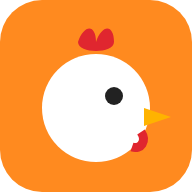
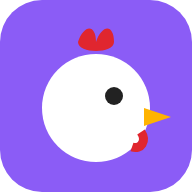
Rename app to Chiken and switch accent colour to purple
Claude-Session: https://claude.ai/code/session_014kmaJenJY1yJoL3Ndjo4G5

diff --git a/src/index.css b/src/index.css
@@ -5,8 +5,8 @@
   --line: #34343f;
   --text: #e8e8ef;
   --muted: #9a9aab;
-  --accent: #ff8a1f;
-  --accent2: #ffb35c;
+  --accent: #8b5cf6;
+  --accent2: #a78bfa;
   --sel: #3d8bff;
   --danger: #ff4d5e;
   font-family: Inter, system-ui, -apple-system, 'Segoe UI', Roboto, sans-serif;
@@ -23,7 +23,7 @@ button {
 }
 button:hover { border-color: #55556a; background: #30303e; }
 button:disabled { opacity: .45; cursor: default; }
-button.primary { background: var(--accent); border-color: var(--accent); color: #1a1006; font-weight: 600; }
+button.primary { background: var(--accent); border-color: var(--accent); color: #ffffff; font-weight: 600; }
 button.primary:hover { background: var(--accent2); }
 button.active { background: var(--sel); border-color: var(--sel); color: #fff; }
 button.icon { padding: 3px 7px; background: transparent; border-color: transparent; }
@@ -71,7 +71,7 @@ input[type='checkbox'] { accent-color: var(--accent); }
 .small { font-size: 11px; }
 .hint { color: var(--muted); font-size: 11px; line-height: 1.4; }
 .chip { display: inline-block; padding: 2px 8px; border-radius: 99px; background: var(--panel2); border: 1px solid var(--line); font-size: 11px; cursor: pointer; }
-.chip.on { background: var(--accent); color: #1a1006; border-color: var(--accent); }
+.chip.on { background: var(--accent); color: #ffffff; border-color: var(--accent); }
 
 .modal-backdrop { position: fixed; inset: 0; background: #0009; display: grid; place-items: center; z-index: 900; }
 .modal { background: var(--panel); border: 1px solid var(--line); border-radius: 10px; min-width: 340px; max-width: 90vw; max-height: 86vh; display: flex; flex-direction: column; box-shadow: 0 10px 50px #000a; }
@@ -116,13 +116,13 @@ input[type='checkbox'] { accent-color: var(--accent); }
 .tl-heads-spacer { height: 22px; border-bottom: 1px solid var(--line); }
 .tl-track { height: 52px; border-bottom: 1px solid #2a2a35; position: relative; }
 .tl-track.text { height: 36px; }
-.tl-track.drop { background: #ff8a1f14; }
+.tl-track.drop { background: #8b5cf614; }
 .clip { position: absolute; top: 3px; bottom: 3px; border-radius: 5px; overflow: hidden; cursor: grab; font-size: 11px; color: #fff; border: 1px solid #0005; user-select: none; }
 .clip.video { background: #3a5b9c; }
 .clip.image { background: #3f7a64; }
 .clip.audio { background: #2b6b50; }
 .clip.text { background: #9a5bc9; }
-.clip.animation { background: #c76a1d; }
+.clip.animation { background: #7c3aed; }
 .clip.color { background: #555; }
 .clip.sel { outline: 2px solid #fff; z-index: 2; }
 .clip .label { position: absolute; left: 6px; top: 2px; right: 6px; white-space: nowrap; overflow: hidden; text-overflow: ellipsis; text-shadow: 0 1px 2px #000; pointer-events: none; z-index: 1; }
@@ -175,7 +175,7 @@ input[type='checkbox'] { accent-color: var(--accent); }
 .audio-list { display: flex; flex-direction: column; }
 .audio-item { display: flex; align-items: center; gap: 8px; padding: 6px 10px; border-bottom: 1px solid #2a2a35; }
 .audio-item .aname { flex: 1; overflow: hidden; text-overflow: ellipsis; white-space: nowrap; }
-.audio-item.on { background: #ff8a1f22; }
+.audio-item.on { background: #8b5cf622; }
 .audio-main { display: flex; flex-direction: column; min-width: 0; overflow: auto; padding: 14px; gap: 14px; }
 .wave { width: 100%; height: 140px; background: #101016; border-radius: 8px; border: 1px solid var(--line); cursor: pointer; }
 .card { background: var(--panel); border: 1px solid var(--line); border-radius: 10px; padding: 12px; display: flex; flex-direction: column; gap: 8px; }

diff --git a/src/animator/Animator.tsx b/src/animator/Animator.tsx
@@ -21,7 +21,7 @@ export function newAnimation(name = 'Animation 1'): AnimationDoc {
 function newLayer(kind: AnimLayer['kind'], a: AnimationDoc, extra: Partial<AnimLayer> = {}): AnimLayer {
   return {
     id: nanoid(8), name: kind, kind, visible: true, locked: false, start: 0, end: a.duration, base: { ...BASE }, keys: {},
-    fill: '#ff8a1f', stroke: '#ffffff', strokeWidth: 0, w: 300, h: 300, sides: 5, effect: 'none', presetIn: 'none', presetOut: 'none', presetLoop: 'none',
+    fill: '#8b5cf6', stroke: '#ffffff', strokeWidth: 0, w: 300, h: 300, sides: 5, effect: 'none', presetIn: 'none', presetOut: 'none', presetLoop: 'none',
     ...extra,
   }
 }
@@ -73,8 +73,8 @@ export function Animator() {
 
   const createDoc = () => {
     const a = newAnimation(`Animation ${project.animations.length + 1}`)
-    const t = newLayer('text', a, { name: 'Title', text: 'Hello!', fontSize: 160, bold: true, fill: '#ffffff', stroke: '#ff8a1f', strokeWidth: 8, presetIn: 'pop', presetLoop: 'float' })
-    const s = newLayer('shape', a, { name: 'Circle', shape: 'ellipse', w: 500, h: 500, fill: '#ff8a1f', base: { ...BASE, y: 0 }, presetIn: 'zoom' })
+    const t = newLayer('text', a, { name: 'Title', text: 'Hello!', fontSize: 160, bold: true, fill: '#ffffff', stroke: '#8b5cf6', strokeWidth: 8, presetIn: 'pop', presetLoop: 'float' })
+    const s = newLayer('shape', a, { name: 'Circle', shape: 'ellipse', w: 500, h: 500, fill: '#8b5cf6', base: { ...BASE, y: 0 }, presetIn: 'zoom' })
     a.layers = [t, s]
     update((p) => { p.animations.push(a) })
     setDocId(a.id); setLayerId(t.id); setTime(0)
@@ -459,7 +459,7 @@ export function Animator() {
                 <div className="row kfrow" key={prop}>
                   <div style={{ flex: 1, minWidth: 0 }}><Slider label={prop} min={mn} max={mx} step={st} value={v} onCommit={useStore.getState().checkpoint}
                     onChange={(nv) => editLayer((l) => setProp(l, prop, nv), false)} /></div>
-                  <button className="icon" title="Toggle keyframe" style={{ color: onKey >= 0 ? '#ff8a1f' : keys.length ? '#ffb35c88' : '#666' }}
+                  <button className="icon" title="Toggle keyframe" style={{ color: onKey >= 0 ? '#8b5cf6' : keys.length ? '#a78bfa88' : '#666' }}
                     onClick={() => editLayer((l) => { l.keys[prop] = onKey >= 0 ? keys.filter((_, i) => i !== onKey) : setKey(keys, Math.max(0, local), v) })}>◆</button>
                 </div>
               )

diff --git a/src/video/VideoEditor.tsx b/src/video/VideoEditor.tsx
@@ -17,7 +17,7 @@ const TEXT_TEMPLATES: { name: string; text: string; style: Partial<typeof DEFAUL
   { name: 'Neon', text: 'NEON', style: { size: 110, color: '#39ff14', stroke: '#0b3d00', strokeWidth: 3, font: 'Impact, sans-serif' }, anim: 'zoom' },
   { name: 'Typewriter', text: 'Typing effect…', style: { size: 64, font: 'ui-monospace, monospace', bold: false, strokeWidth: 0 }, anim: 'typewriter' },
   { name: 'Meme', text: 'TOP TEXT', style: { size: 100, font: 'Impact, sans-serif', strokeWidth: 6 } },
-  { name: 'Lower third', text: 'Name Surname\nTitle', style: { size: 48, align: 'left', background: '#ff8a1fdd', color: '#111111', strokeWidth: 0, shadow: false }, anim: 'slide-right' },
+  { name: 'Lower third', text: 'Name Surname\nTitle', style: { size: 48, align: 'left', background: '#8b5cf6dd', color: '#ffffff', strokeWidth: 0, shadow: false }, anim: 'slide-right' },
   { name: 'Handwritten', text: 'hello!', style: { size: 96, font: '"Comic Sans MS", "Segoe Print", cursive', color: '#ffe066' }, anim: 'bounce' },
 ]
 const STICKERS = ['😂', '🔥', '❤', '👍', '😎', '🎉', '⭐', '💯', '😱', '🐔', '🍗', '🥚', '👀', '✨', '💥', '🎵', '➡', '✅', '❌', '💀', '🤯', '🙌', '🌈', '☀']
@@ -68,7 +68,7 @@ function LeftPanel() {
             <button onClick={() => useStore.getState().update((p) => {
               const st = useStore.getState()
               const tr = p.tracks.find((t) => t.kind === 'video')!
-              p.clips.push(makeClip('color', tr.id, st.playhead, 3, { name: 'Color', color: '#ff8a1f' }))
+              p.clips.push(makeClip('color', tr.id, st.playhead, 3, { name: 'Color', color: '#8b5cf6' }))
             })}>＋ Solid color clip</button>
           </div>
         </>}
@@ -182,7 +182,7 @@ function Inspector() {
   const timed = c.kind === 'video' || c.kind === 'audio'
   const keyBtn = (k: keyof Transform) => {
     const onKey = c.keyframes?.[k]?.some((kf) => Math.abs(kf.t - local) < 0.02)
-    return <button className="icon" title="Add/remove keyframe at playhead" style={{ color: onKey ? '#ff8a1f' : hasKeys(k) ? '#ffb35c88' : '#666' }} onClick={() => toggleKey(k)}>◆</button>
+    return <button className="icon" title="Add/remove keyframe at playhead" style={{ color: onKey ? '#8b5cf6' : hasKeys(k) ? '#a78bfa88' : '#666' }} onClick={() => toggleKey(k)}>◆</button>
   }
   return (
     <div className="panel inspector">

diff --git a/src/export/exporters.ts b/src/export/exporters.ts
@@ -227,7 +227,7 @@ export async function exportSpriteSheet(src: FrameSource, o: { scale: number; fp
   const png = await new Promise<Blob>((r) => sheet.toBlob((b) => r(b!), 'image/png'))
   const meta = {
     frames: frames.map((_, i) => ({ frame: i, x: (i % cols) * w, y: Math.floor(i / cols) * h, w, h, duration: Math.round(1000 / o.fps) })),
-    meta: { app: 'Chicken Studios', size: { w: sheet.width, h: sheet.height }, frameSize: { w, h }, fps: o.fps, columns: cols, rows },
+    meta: { app: 'Chiken', size: { w: sheet.width, h: sheet.height }, frameSize: { w, h }, fps: o.fps, columns: cols, rows },
   }
   const zip = new JSZip()
   zip.file('spritesheet.png', png)
@@ -249,11 +249,11 @@ export function scaledCanvas(src: HTMLCanvasElement, scale: number, bg?: string)
   return c
 }
 
-/* ---------------- project files (.chicken) ---------------- */
+/* ---------------- project files (.chiken) ---------------- */
 export async function exportProjectFile(p: Project, photo: { meta: unknown; layers: { id: string; blob: Blob }[] } | null) {
   const zip = new JSZip()
   zip.file('project.json', JSON.stringify(p))
-  zip.file('format.txt', 'Chicken Studios project v1')
+  zip.file('format.txt', 'Chiken project v1')
   for (const m of p.media) {
     if (m.kind === 'animation') continue
     const b = await getBlob(m.id)
@@ -269,7 +269,7 @@ export async function exportProjectFile(p: Project, photo: { meta: unknown; laye
 export async function importProjectFile(f: Blob) {
   const zip = await JSZip.loadAsync(f)
   const pj = await zip.file('project.json')?.async('string')
-  if (!pj) throw new Error('Not a Chicken Studios project file')
+  if (!pj) throw new Error('Not a Chiken project file')
   const p = JSON.parse(pj) as Project
   for (const m of p.media) {
     const e = zip.file('media/' + m.id)

diff --git a/src/export/ExportTab.tsx b/src/export/ExportTab.tsx
@@ -202,15 +202,15 @@ function ProjectCard() {
   return (
     <div className="card">
       <h3>💾 Project file</h3>
-      <div className="hint">Your work autosaves in this browser. Use a <b>.chicken</b> project file to back up or move everything (timeline, media, animations, photo layers) to another computer.</div>
+      <div className="hint">Your work autosaves in this browser. Use a <b>.chiken</b> project file to back up or move everything (timeline, media, animations, photo layers) to another computer.</div>
       <div className="row">
         <button className="primary" disabled={job.running} onClick={() => job.run('Packing project…', async () => {
           const photo = await photoBundle(doc)
           const blob = await exportProjectFile(project, photo.meta ? photo : null)
-          downloadBlob(blob, `${safe(project.name)}.chicken`)
+          downloadBlob(blob, `${safe(project.name)}.chiken`)
         })}>⬇ Save project file</button>
         <button disabled={job.running} onClick={async () => {
-          const [f] = await pickFiles('.chicken,.zip', false)
+          const [f] = await pickFiles('.chiken,.chicken,.zip', false)
           if (!f) return
           await job.run('Opening project…', async () => {
             const { project: p, photo } = await importProjectFile(f)

diff --git a/src/photo/tools.ts b/src/photo/tools.ts
@@ -1132,7 +1132,7 @@ export function drawOverlay(x: CanvasRenderingContext2D, zoom: number, phase: nu
   x.lineWidth = px
   // slices
   doc.slices.forEach((s, i) => {
-    x.strokeStyle = i === doc.activeSlice ? '#ffb000' : '#3d8bff'
+    x.strokeStyle = i === doc.activeSlice ? '#c084fc' : '#3d8bff'
     x.lineWidth = px * (i === doc.activeSlice ? 2 : 1)
     x.strokeRect(s.x, s.y, s.w, s.h)
     x.fillStyle = x.strokeStyle; x.font = `${11 * px}px sans-serif`
@@ -1194,7 +1194,7 @@ export function drawOverlay(x: CanvasRenderingContext2D, zoom: number, phase: nu
     x.stroke(); x.strokeStyle = '#fff'; x.lineDashOffset = 4 * px; x.stroke(); x.setLineDash([]); x.lineDashOffset = 0
   }
   if (ts.patchMode === 'drag' && ts.start && ts.cursor) {
-    x.strokeStyle = '#ff8a1f'; x.setLineDash([4 * px, 3 * px]); x.beginPath(); x.moveTo(ts.start.x, ts.start.y); x.lineTo(ts.cursor.x, ts.cursor.y); x.stroke(); x.setLineDash([])
+    x.strokeStyle = '#8b5cf6'; x.setLineDash([4 * px, 3 * px]); x.beginPath(); x.moveTo(ts.start.x, ts.start.y); x.lineTo(ts.cursor.x, ts.cursor.y); x.stroke(); x.setLineDash([])
     const sc = doc.selectionCanvas()
     if (sc) { x.globalAlpha = 0.5; x.drawImage(doc.antsCanvas(phase)!, ts.cursor.x - ts.start.x, ts.cursor.y - ts.start.y); x.globalAlpha = 1 }
   }

diff --git a/src/audio/AudioTab.tsx b/src/audio/AudioTab.tsx
@@ -31,7 +31,7 @@ function Wave({ m, sel, setSel, pos }: { m: MediaItem; sel: [number, number] | n
     cv.width = w; cv.height = h
     const ctx = cv.getContext('2d')!
     ctx.clearRect(0, 0, w, h)
-    if (sel) { ctx.fillStyle = '#ff8a1f33'; ctx.fillRect((sel[0] / m.duration) * w, 0, ((sel[1] - sel[0]) / m.duration) * w, h) }
+    if (sel) { ctx.fillStyle = '#8b5cf633'; ctx.fillRect((sel[0] / m.duration) * w, 0, ((sel[1] - sel[0]) / m.duration) * w, h) }
     const peaks = ready ? getPeaks(m.id, 4000) : null
     ctx.fillStyle = '#7dffbf'
     if (peaks) for (let x = 0; x < w; x++) {
@@ -40,7 +40,7 @@ function Wave({ m, sel, setSel, pos }: { m: MediaItem; sel: [number, number] | n
       ctx.fillRect(x, h / 2 - bh / 2, 1, bh)
     }
     else { ctx.fillStyle = '#888'; ctx.font = `${14 * devicePixelRatio}px sans-serif`; ctx.fillText('Decoding…', 10, h / 2) }
-    ctx.fillStyle = '#ff8a1f'
+    ctx.fillStyle = '#8b5cf6'
     ctx.fillRect((pos / Math.max(0.001, m.duration)) * w, 0, 2 * devicePixelRatio, h)
   }, [ready, m, sel, pos])
   const toT = (e: { clientX: number }) => { const r = ref.current!.getBoundingClientRect(); return Math.max(0, Math.min(m.duration, ((e.clientX - r.left) / r.width) * m.duration)) }

diff --git a/src/App.tsx b/src/App.tsx
@@ -34,12 +34,12 @@ export default function App() {
     return () => window.removeEventListener('keydown', onKey)
   }, [])
 
-  if (!loaded) return <div style={{ display: 'grid', placeItems: 'center', height: '100%' }}>Loading Chicken Studios…</div>
+  if (!loaded) return <div style={{ display: 'grid', placeItems: 'center', height: '100%' }}>Loading Chiken…</div>
 
   return (
     <div className={'app ' + (tab === 'photo' && screenMode === 2 ? 'screen-full' : '')}>
       <div className="topbar">
-        <div className="brand"><img src="./favicon.svg" alt="" />Chicken Studios</div>
+        <div className="brand"><img src="./favicon.svg" alt="" />Chiken</div>
         <div className="tabs">
           {TABS.map((t, i) => (
             <button key={t.id} className={tab === t.id ? 'on' : ''} title={`Alt+${i + 1}`} onClick={() => useStore.getState().setTab(t.id)}>{t.label}</button>

diff --git a/src/photo/PhotoEditor.tsx b/src/photo/PhotoEditor.tsx
@@ -504,7 +504,7 @@ function RightPanels() {
     }, 150)
     return () => clearInterval(i)
   }, [])
-  const SW = ['#000000', '#ffffff', '#ff3b30', '#ff9500', '#ffcc00', '#34c759', '#00c7be', '#007aff', '#5856d6', '#af52de', '#ff2d55', '#8e8e93', '#a2845e', '#ff8a1f']
+  const SW = ['#000000', '#ffffff', '#ff3b30', '#ff9500', '#ffcc00', '#34c759', '#00c7be', '#007aff', '#5856d6', '#af52de', '#ff2d55', '#8e8e93', '#a2845e', '#8b5cf6']
   const selB = doc.selection ? maskBounds(doc.selection, doc.width, doc.height) : null
   const l = doc.layer
   return (

diff --git a/vite.config.ts b/vite.config.ts
@@ -11,8 +11,8 @@ export default defineConfig({
       registerType: 'autoUpdate',
       includeAssets: ['favicon.svg'],
       manifest: {
-        name: 'Chicken Studios',
-        short_name: 'Chicken Studios',
+        name: 'Chiken',
+        short_name: 'Chiken',
         description: 'Photo, video, audio and animation editor that runs in your browser.',
         theme_color: '#16161d',
         background_color: '#16161d',

diff --git a/index.html b/index.html
@@ -5,7 +5,7 @@
     <link rel="icon" type="image/svg+xml" href="./favicon.svg" />
     <meta name="viewport" content="width=device-width, initial-scale=1.0" />
     <meta name="theme-color" content="#16161d" />
-    <title>Chicken Studios</title>
+    <title>Chiken</title>
   </head>
   <body>
     <div id="root"></div>

diff --git a/README.md b/README.md
@@ -1,4 +1,4 @@
-# 🐔 Chicken Studios
+# 🐔 Chiken
 
 A photo, video, audio and animation editor that runs entirely in your browser. You can install it like an app on a Chromebook, and it works offline.
 
@@ -20,7 +20,7 @@ npm run build      # production build in dist/
 | 🎬 **Video** | A CapCut-style editor: multi-track timeline, split/trim/ripple, speed, volume and fades, text and stickers, filters, adjustments, transitions, in/out/loop animations, keyframes, chroma key, aspect-ratio presets. |
 | 🎵 **Audio** | Import music, 17 built-in royalty-free sounds and loops, voiceover recording, waveform range picking, "fit to video length", and a mixer. |
 | 🐔 **Animator** | Keyframe motion graphics, frame-by-frame drawing with onion skin, and one-click presets. **Send to video editor** stays live-linked: edits in the Animator update the clip in your video. |
-| ⬇ **Export** | MP4/WebM/MOV video, GIF/APNG/sprite sheet, PNG/JPG/WebP (and photo slices), MP3/WAV audio, and `.chicken` project files. |
+| ⬇ **Export** | MP4/WebM/MOV video, GIF/APNG/sprite sheet, PNG/JPG/WebP (and photo slices), MP3/WAV audio, and `.chiken` project files. |
 
 Your work autosaves in the browser (IndexedDB). Use **Export → Project file** to back it up or move it to another computer.
 
